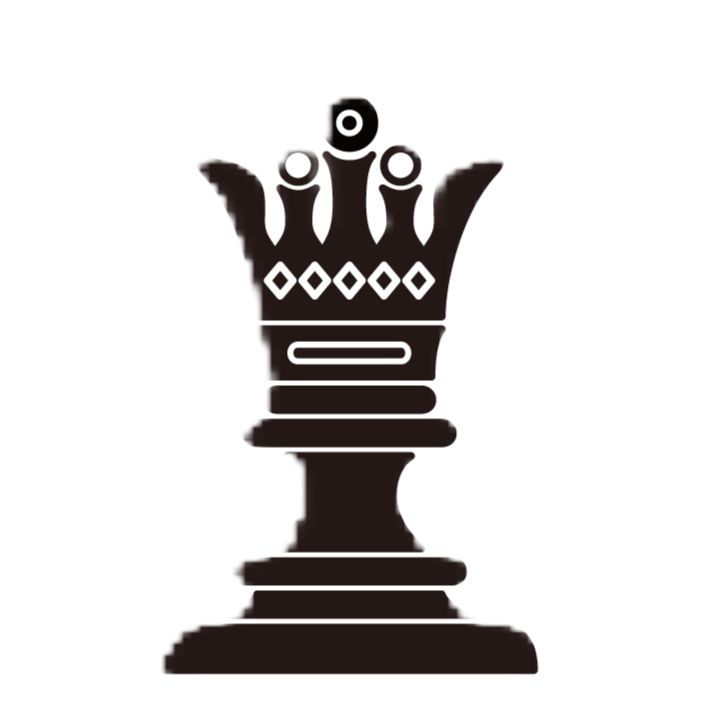
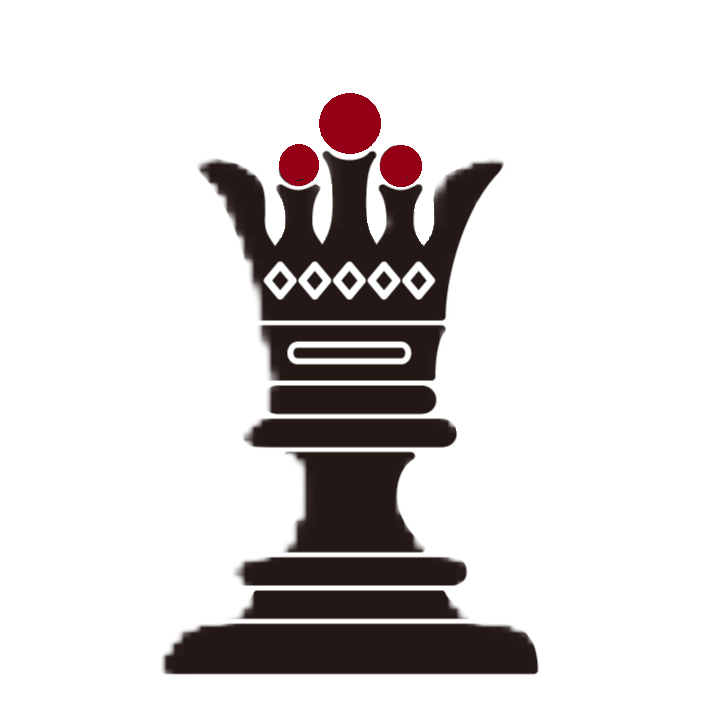
update piece looks

Changed region(s): [[0.3662, 0.1221, 0.6103, 0.2746]]

diff --git a/src/components/Game.tsx b/src/components/Game.tsx
@@ -67,19 +67,24 @@ const Game: React.FC<GameProps> = () => {
     }
   }, [gameState, plannedMove]);
 
-  const handleAction = (action: SendAction, name: string, team: string, promote: boolean) => {
+  const handleAction = (action: SendAction, name: string, team: string, promote: boolean, rearranged: boolean) => {
     setPlannedMove({
       ...action,
       name,
       team,
       promote: action.promote || promote,
+      rearranged
     });
     takeAction(action);
   };
 
   const handleSelectAndMove = (x: number, y: number, cell: BoardCell) => {
     if (cell?.name) {
-      setTouchedPiece(cell.name as Piece);
+      if (cell.name === Piece.ChessPawn && cell.rearranged) {
+        setTouchedPiece(Piece.ChessCrackedPawn);
+      } else {
+        setTouchedPiece(cell.name as Piece);
+      }
     } else {
       setTouchedPiece(null);
     }
@@ -104,7 +109,7 @@ const Game: React.FC<GameProps> = () => {
           promote: true,
           x,
           y,
-        }, selectedPiece.piece.name, selectedPiece.piece.team, selectedPiece.piece.promoted);
+        }, selectedPiece.piece.name, selectedPiece.piece.team, selectedPiece.piece.promoted, selectedPiece.piece.rearranged);
       } else if (isPromotable) {
         setPromotionDialog({ x, y, pieceId: selectedPiece.piece.id });
         return;
@@ -115,7 +120,7 @@ const Game: React.FC<GameProps> = () => {
           promote: false,
           x,
           y,
-        }, selectedPiece.piece.name, selectedPiece.piece.team, selectedPiece.piece.promoted);
+        }, selectedPiece.piece.name, selectedPiece.piece.team, selectedPiece.piece.promoted, selectedPiece.piece.rearranged);
       }
 
       setSelectedPiece(null);
@@ -127,7 +132,7 @@ const Game: React.FC<GameProps> = () => {
         promote: false,
         x,
         y,
-      }, selectedCapturedPiece.name, selectedCapturedPiece.team, false);
+      }, selectedCapturedPiece.name, selectedCapturedPiece.team, false, true);
       setSelectedPiece(null);
       setSelectedCapturedPiece(null);
     } else if (gameState) {
@@ -155,7 +160,7 @@ const Game: React.FC<GameProps> = () => {
         promote,
         x: promotionDialog.x,
         y: promotionDialog.y,
-      }, selectedPiece.piece.name, selectedPiece.piece.team, selectedPiece.piece.promoted);
+      }, selectedPiece.piece.name, selectedPiece.piece.team, selectedPiece.piece.promoted, selectedPiece.piece.rearranged);
     }
     setSelectedPiece(null);
     setSelectedCapturedPiece(null);

diff --git a/src/constants/pieceImages.ts b/src/constants/pieceImages.ts
@@ -31,6 +31,9 @@ import chessPawn from "../assets/images/pieces/chess_pawn.png";
 import chessPillar from "../assets/images/pieces/chess_pillar.png";
 import chessWish from "../assets/images/pieces/chess_wisp.png";
 import chessLance from "../assets/images/pieces/chess_lance.png";
+import chessSentinel from "../assets/images/pieces/chess_sentinel.png";
+import chessCrackedPawn from "../assets/images/pieces/chess_cracked_pawn.png";
+import chessPawnQueen from "../assets/images/pieces/chess_pawn_queen.png";
 
 // 通常駒の画像マッピング
 const pieceImages: { [key in Piece]: string } = {
@@ -55,7 +58,9 @@ const pieceImages: { [key in Piece]: string } = {
   [Piece.ChessPawn]: chessPawn,
   [Piece.ChessPillar]: chessPillar,
   [Piece.ChessWisp]: chessWish,
-  [Piece.ChessLance]: chessLance
+  [Piece.ChessLance]: chessLance,
+  [Piece.ChessSentinel]: chessSentinel,
+  [Piece.ChessCrackedPawn]: chessCrackedPawn,
 };
 
 // 成り駒の画像マッピング (将棋のみ)
@@ -68,7 +73,9 @@ const piecePromoteImages: { [key in Piece]?: string } = {
   [Piece.ShogiSilver]: shogiPromSilver,
   [Piece.ShogiJumper]: shogiPromJumper,
   [Piece.ShogiPhoenix]: shogiPromPhoenix,
-  [Piece.ChessPawn]: chessQueen,
+  [Piece.ChessPawn]: chessPawnQueen,
+  [Piece.ChessLance]: chessSentinel,
+  [Piece.ChessCrackedPawn]: chessSentinel,
 };
 
 export { pieceImages, piecePromoteImages };

diff --git a/src/components/Board.tsx b/src/components/Board.tsx
@@ -80,6 +80,13 @@ const Board: React.FC<BoardProps> = ({
     return plannedMove && plannedMove.x === x && plannedMove.y === y;
   };
 
+  const getPieceImage = (piece: Piece, promoted: boolean, rearranged: boolean) => {
+    if (piece === Piece.ChessPawn && rearranged) {
+      return promoted ? piecePromoteImages[Piece.ChessCrackedPawn] : pieceImages[Piece.ChessCrackedPawn];
+    }
+    return promoted ? piecePromoteImages[piece] : pieceImages[piece];
+  }
+
   return (
     <BoardContainer>
       <StyledBoard size={board.length}>
@@ -97,13 +104,13 @@ const Board: React.FC<BoardProps> = ({
             >
               {plannedMove && isPlannedMoveCell(x, y) ? (
                 <PieceImage
-                  src={plannedMove.promote ? piecePromoteImages[plannedMove.name as Piece] : pieceImages[plannedMove.name as Piece]}
+                  src={getPieceImage(plannedMove.name as Piece, plannedMove.promote, plannedMove.rearranged)}
                   opacity={0.3}
                   alt={plannedMove.name}
                 />
               ) : cell?.name ? (
                 <PieceImage
-                  src={cell.promoted ? piecePromoteImages[cell.name as Piece] : pieceImages[cell.name as Piece]}
+                  src={getPieceImage(cell.name as Piece, cell.promoted, cell.rearranged)}
                   alt={cell.name}
                 />
               ) : (

diff --git a/src/hooks/useMovePreview.ts b/src/hooks/useMovePreview.ts
@@ -88,7 +88,19 @@ const useMovePreview = () => {
         generateLineMoves(-1, 1)
       ),
     },
-    [Piece.ChessPawn]: { normal: [[1, 0]] },
+    [Piece.ChessPawn]: {
+      normal: [[1, 0]],
+      promoted: combineMoves(
+        generateLineMoves(1, 0),
+        generateLineMoves(-1, 0),
+        generateLineMoves(0, 1),
+        generateLineMoves(0, -1),
+        generateLineMoves(1, 1),
+        generateLineMoves(-1, -1),
+        generateLineMoves(1, -1),
+        generateLineMoves(-1, 1)
+      ),
+    },
     [Piece.ChessKing]: {
       normal: [[1, 0], [1, 1], [0, 1], [-1, 1], [-1, 0], [-1, -1], [0, -1], [1, -1]],
     },
@@ -131,7 +143,15 @@ const useMovePreview = () => {
     },
     [Piece.ChessLance]: {
       normal: generateLineMoves(1, 0),
+      promoted: [[1, 0], [1, 1], [0, 1], [-1, 1], [-1, 0], [-1, -1], [0, -1], [1, -1]],
     },
+    [Piece.ChessSentinel]: {
+      normal: [[1, 0], [1, 1], [0, 1], [-1, 1], [-1, 0], [-1, -1], [0, -1], [1, -1]],
+    },
+    [Piece.ChessCrackedPawn]: {
+      normal: [[1, 0]],
+      promoted: [[1, 0], [1, 1], [0, 1], [-1, 1], [-1, 0], [-1, -1], [0, -1], [1, -1]],
+    }
   };
 
   // 動きを取得する関数

diff --git a/src/components/MovePreview.tsx b/src/components/MovePreview.tsx
@@ -67,7 +67,7 @@ const MovePreview: React.FC<MovePreviewProps> = ({ piece }) => {
   const center = Math.floor(boardSize / 2);
   const longMovePieces = [
     Piece.ShogiRook, Piece.ShogiBishop, Piece.ShogiPhoenix, Piece.ShogiLance,
-    Piece.ChessRook, Piece.ChessBishop, Piece.ChessQueen, Piece.ChessLance
+    Piece.ChessRook, Piece.ChessBishop, Piece.ChessQueen, Piece.ChessLance, Piece.ChessPawn
   ]
 
   const getDefaultColor = (piece: Piece) => {

diff --git a/src/types/GameTypes.ts b/src/types/GameTypes.ts
@@ -7,6 +7,7 @@ export interface PieceState {
   promotable: boolean;
   promoteLine: number;
   immobileRow: number | null;
+  rearranged: boolean;
   team: "black" | "white";
 }
 
@@ -57,4 +58,5 @@ export interface LegalActions {
 export type PlannedMove = SendAction & {
   name: string;
   team: string;
+  rearranged: boolean;
 }

diff --git a/src/types/Pieces.ts b/src/types/Pieces.ts
@@ -20,5 +20,7 @@ export enum Piece {
   ChessPawn = "ChessPawn",
   ChessPillar = "ChessPillar",
   ChessWisp = "ChessWisp",
-  ChessLance = "ChessLance"
+  ChessLance = "ChessLance",
+  ChessSentinel = "ChessSentinel",
+  ChessCrackedPawn = "ChessCrackedPawn"
 }
